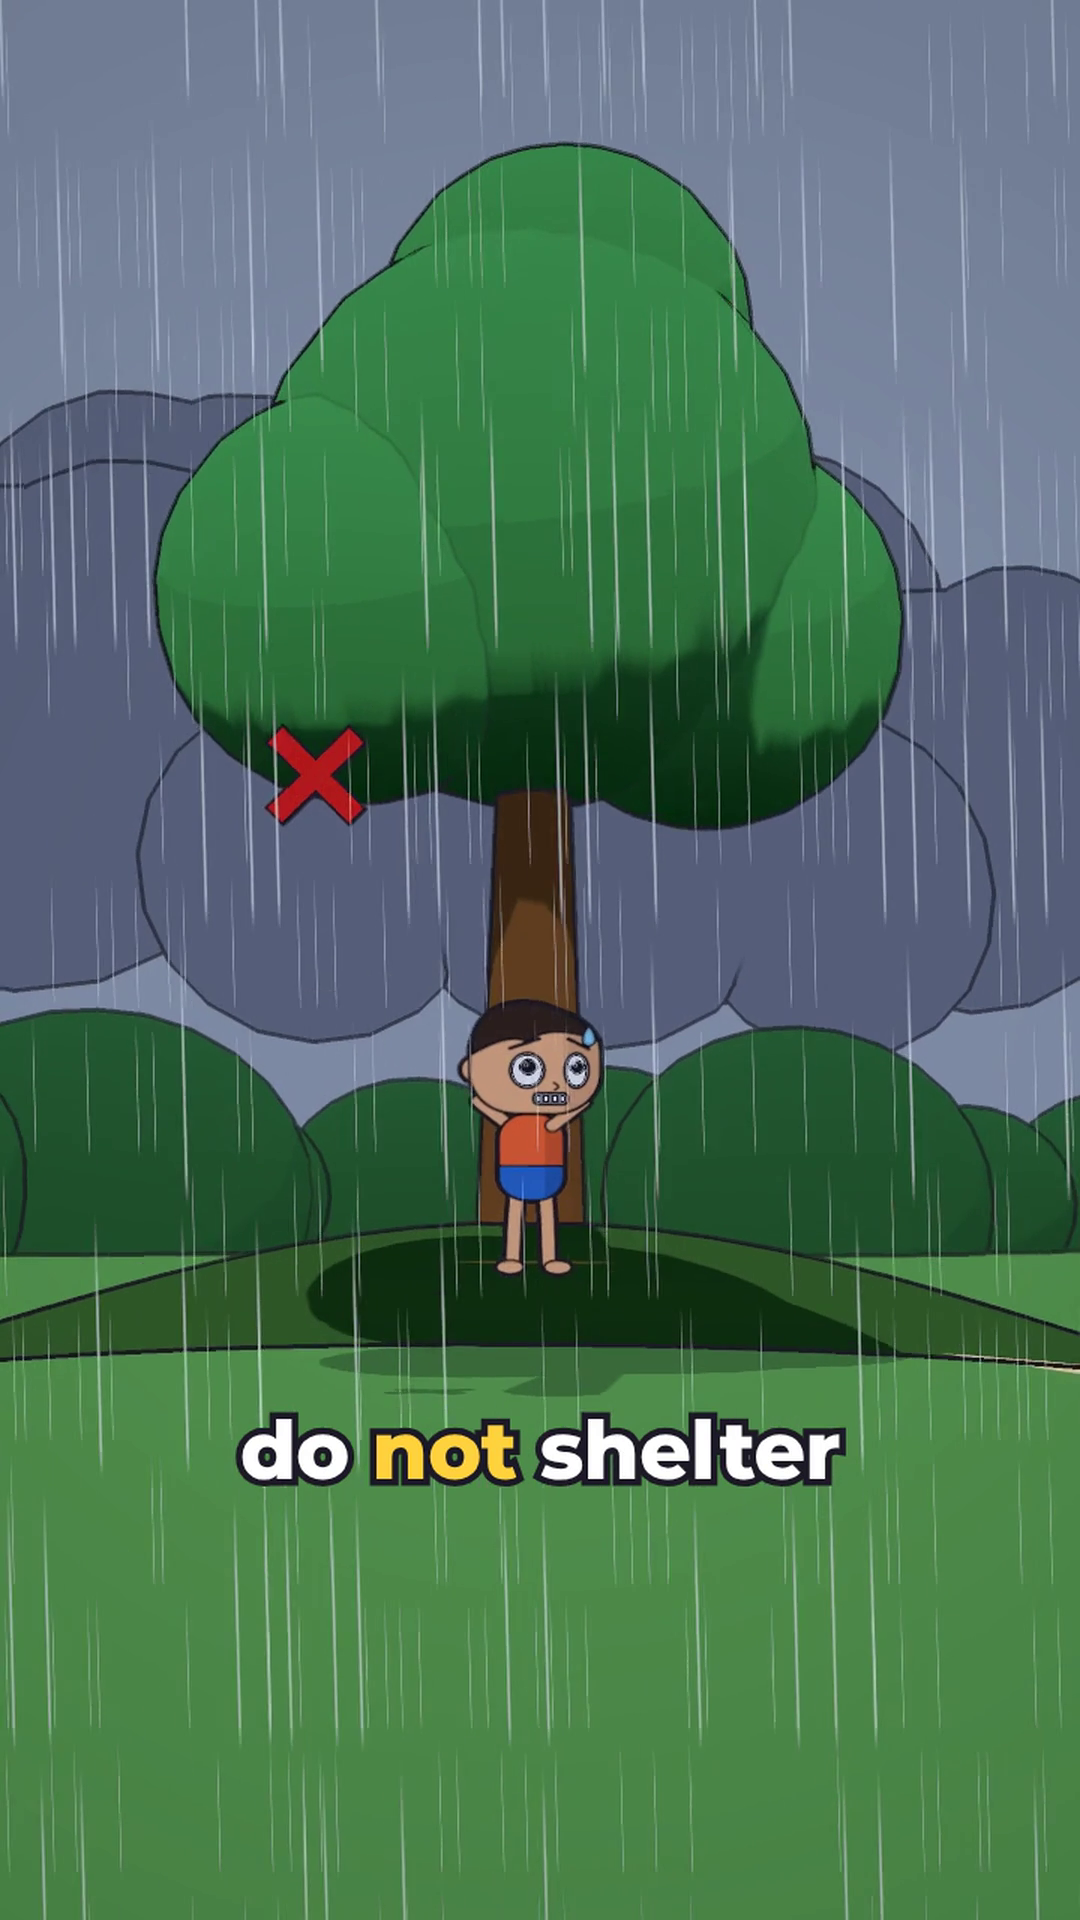
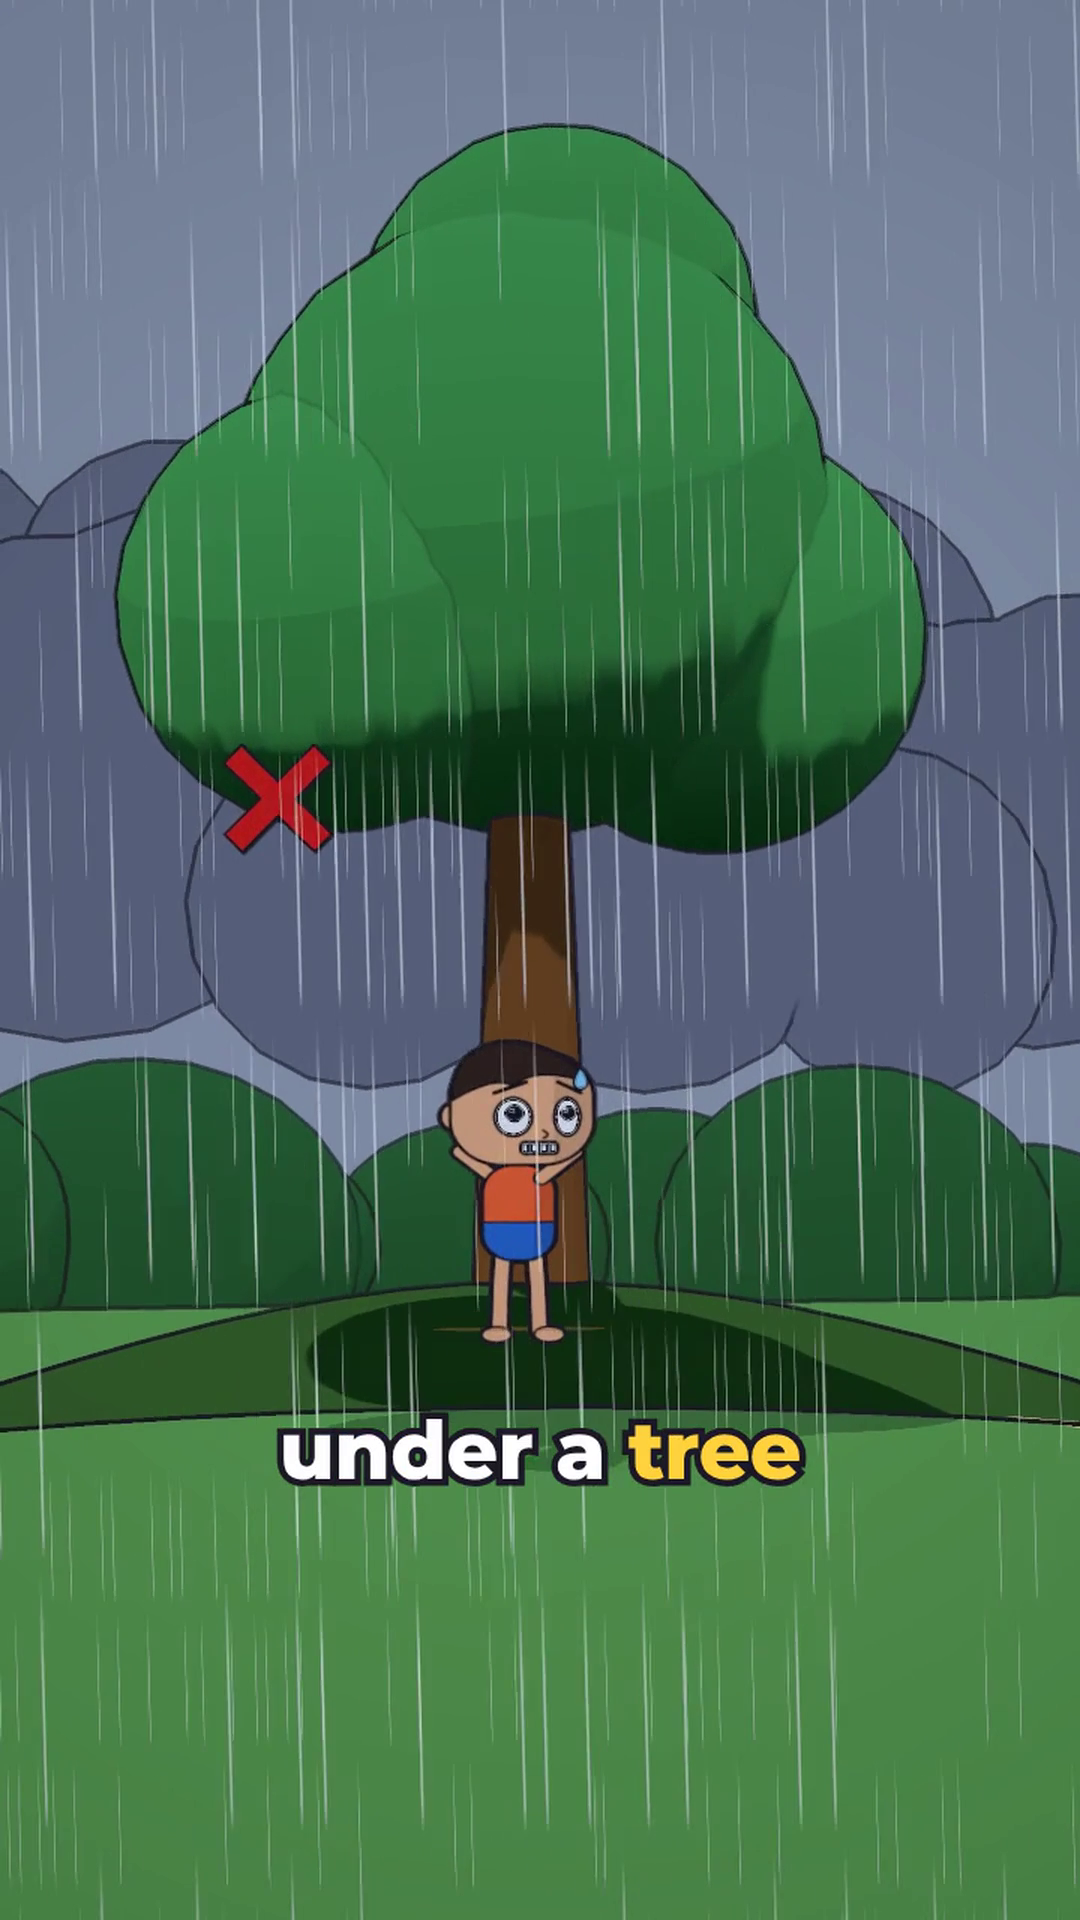
howto/thunderstorm: upload sheet and cover frame
Claude-Session: https://claude.ai/code/session_016c6ARmPUr2BrGtPLGExamv

diff --git a/reels/howto/thunderstorm/UPLOAD.md b/reels/howto/thunderstorm/UPLOAD.md
@@ -1,0 +1,54 @@
+# Upload sheet: "Caught in a thunderstorm?"
+
+File: `thunderstorm.mp4` (1080 x 1920, 30 fps, 41.3 s, H.264 + AAC, about -14 LUFS). Channel: Now What, Sam?
+
+## Title (recommended, 51 characters)
+Caught in a thunderstorm? Do NOT shelter under a tree
+
+### Four more titles to choose from or test
+- Lightning safety: where to go when thunder starts
+- Why lying flat in a thunderstorm is the wrong move
+- Thunderstorm outside? Three instincts that get people hurt
+- Tent, porch, picnic shelter: none of them stop lightning
+
+## Description
+If you can hear thunder, lightning is close enough to strike you. Do not shelter under a tree, do not lie flat, and crouching does not make you safer. Get into a real building, or a car with a metal roof and the windows up. A tent, a porch or a picnic shelter will not protect you.
+
+Nothing in reach? Get off high ground, away from water and away from fences, and spread out if you are in a group. Stay inside until 30 minutes after the last thunder. If someone is hit, it is safe to touch them: call for help.
+
+Sources (US National Weather Service):
+Lightning safety tips: https://www.weather.gov/safety/lightning-tips
+Lightning myths and facts: https://www.weather.gov/safety/lightning-myths
+Outdoors: https://www.weather.gov/safety/lightning-outdoors
+Indoors: https://www.weather.gov/safety/lightning-indoors
+How lightning strikes people: https://www.weather.gov/safety/lightning-struck
+
+General safety information, not professional training. In an emergency, call your local emergency number.
+
+Sound effects: Mixkit (Mixkit Sound Effects Free License). Narration: synthetic voice.
+
+#shorts #lightningsafety #thunderstorm
+
+## Settings
+- Audience: No, it's not made for kids
+- Category: Education. Language: English. Captions are burned into the picture.
+- Tags: lightning safety, thunderstorm, what to do in a thunderstorm, lightning myths, outdoor safety, storm safety, survival tips, cartoon explainer
+- Playlist: Outdoors
+- Altered content question: answer per YouTube's wording on the form (cartoon animation; synthetic narration that is not presented as a real person)
+- Pinned comment: What should Sam get stuck in next?
+
+## Cover frame
+`cover.png`, Sam under the tree with the red cross at about 0:03. On a phone, pick this moment with the cover selector when uploading.
+
+## Rights record
+- Picture: drawn in code in this repository. Type: Montserrat (SIL Open Font License).
+- Narration: Kokoro voice "Fenrir" (model licence Apache 2.0), a synthetic voice.
+- Effects: Mixkit sound effects under the Mixkit Sound Effects Free License; the files are not redistributed.
+- Not certifiable here: Content ID matches and monetisation eligibility. Pending until YouTube's own checks run on upload.
+
+## Pre-publish checklist
+- Title has no typo and the five source links open: pending (check at upload)
+- Captions sit above the Shorts player's own text on a phone: pending (watch once on a phone, sound on)
+- Voice clearly above the effects: measured, effects 10 dB under the voice and 15.8 dB under the last line; the user has listened to this cut
+- Cover readable at phone size: checked on the exported frame
+- Channel handle, profile picture, banner and About text in place: pending
